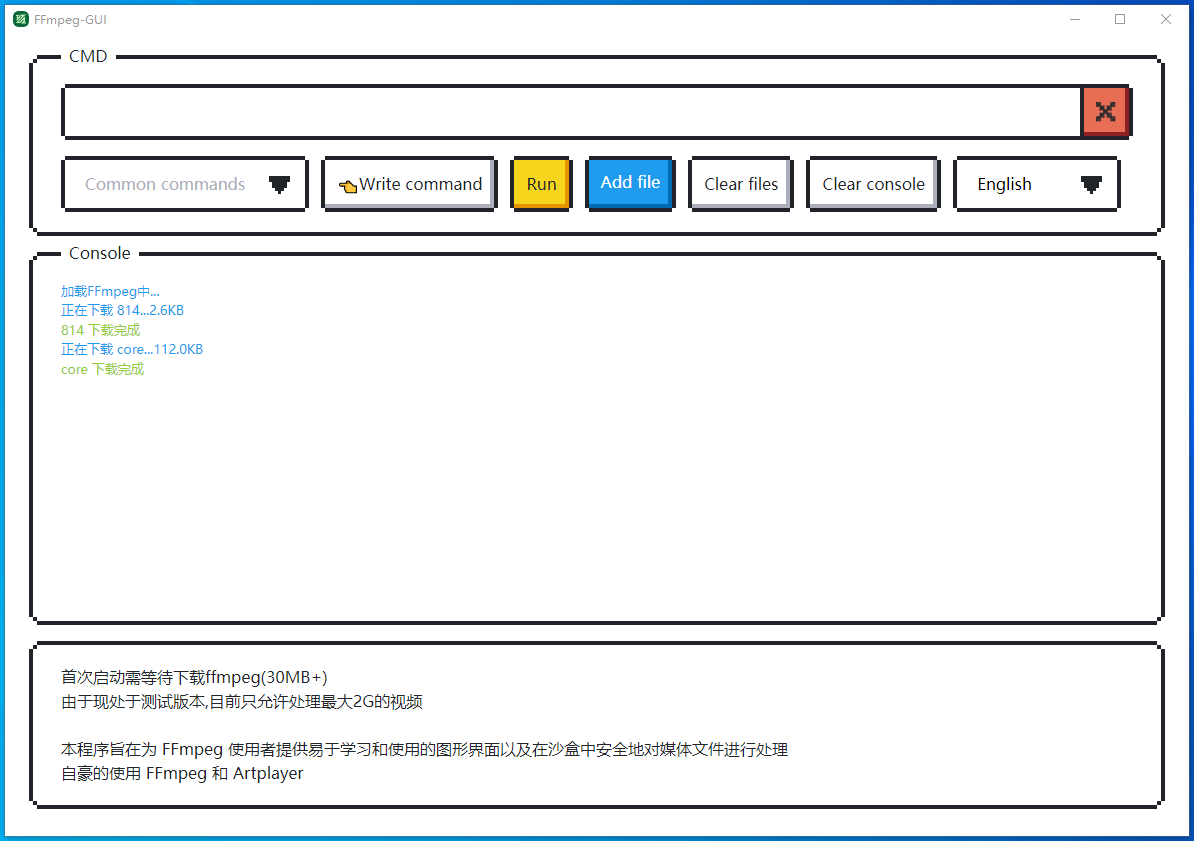
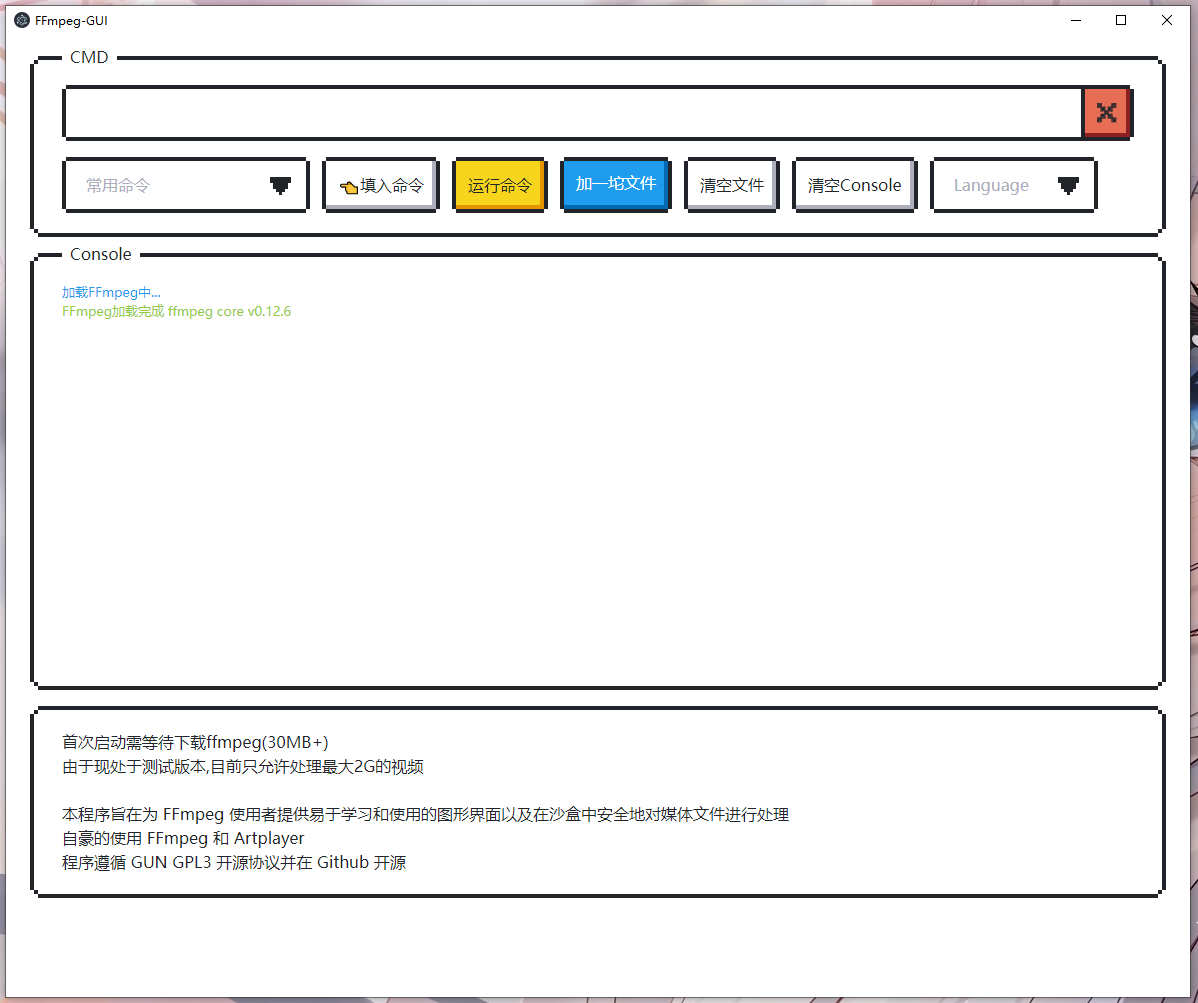
update

Changed region(s): [[0.0, 0.0, 1.0, 1.0]]

diff --git a/index.html b/index.html
@@ -6,7 +6,7 @@
     <title>FFmpeg-GUI</title>
     <link href="./css/nes.min.css" rel="stylesheet" crossorigin="anonymous" />
     <link href="./css/main.css" rel="stylesheet" />
-    <link rel="icon" href="./ffmpeg-64.ico">
+    <link rel="icon" href="./ffmpeg-256.ico">
 </head>
 
 <body>
@@ -34,13 +34,13 @@
         <!-- 操作区 -->
         <div class="showcase">
             <div class="nes-container is-rounded with-title">
-                <p class="title user-select-none">CMD</p>
+                <p class="title">CMD</p>
                 <div class="nes-field">
                     <div id="cmd">
                         <input type="text" id="command" class="nes-input" value=""><button
                             class="nes-btn is-error cancel"><i class="nes-icon close is-large"></i></button>
                     </div>
-                    <div id="run" class="user-select-none">
+                    <div id="run">
                         <div class="nes-select common">
                             <select required id="common">
                                 <option value="" disabled selected hidden data-i18n="commonCommands"></option>
@@ -78,16 +78,15 @@
         <!-- 日志输出 -->
         <div class="showcase">
             <div class="nes-container is-rounded with-title">
-                <p class="title user-select-none">Console</p>
+                <p class="title">Console</p>
                 <div id="log" spellcheck="false"></div>
             </div>
         </div>
 
         <!-- 底部 -->
         <div class="showcase bottom">
-            <p class="nes-container is-rounded user-select-none">
-                首次启动需等待下载ffmpeg(30MB+)<br>由于现处于测试版本,目前只允许处理最大2G的视频<br><br>本程序旨在为 FFmpeg
-                使用者提供易于学习和使用的图形界面以及在沙盒中安全地对媒体文件进行处理<br>自豪的使用 FFmpeg 和 Artplayer<br>界面设计：Bilibili@笨猫猫</p>
+            <p class="nes-container is-rounded">
+                首次启动需等待下载ffmpeg(30MB+)<br>由于现处于测试版本,目前只允许处理最大2G的视频<br><br>本程序旨在为 FFmpeg 使用者提供易于学习和使用的图形界面以及在沙盒中安全地对媒体文件进行处理<br>自豪的使用 FFmpeg 和 Artplayer<br>程序遵循 GUN GPL3 开源协议并在 Github 开源</p>
         </div>
     </div>
 

diff --git a/index.js b/index.js
@@ -3,13 +3,13 @@ const { app, BrowserWindow, Menu } = require('electron');
 const createWindow = () => {
     const win = new BrowserWindow({
         width: 1200,
-        height: 840,
+        height: 1000,
     });
 
     win.loadFile('index.html');
 };
 
 app.whenReady().then(() => {
-    //Menu.setApplicationMenu(null); // 隐藏菜单栏
+    Menu.setApplicationMenu(null); // 隐藏菜单栏
     createWindow();
 });

diff --git a/css/main.css b/css/main.css
@@ -88,10 +88,6 @@ select {
   margin-top: -2.2rem !important;
 }
 
-.user-select-none {
-  user-select: none;
-}
-
 .hide {
   display: none !important;
 }
